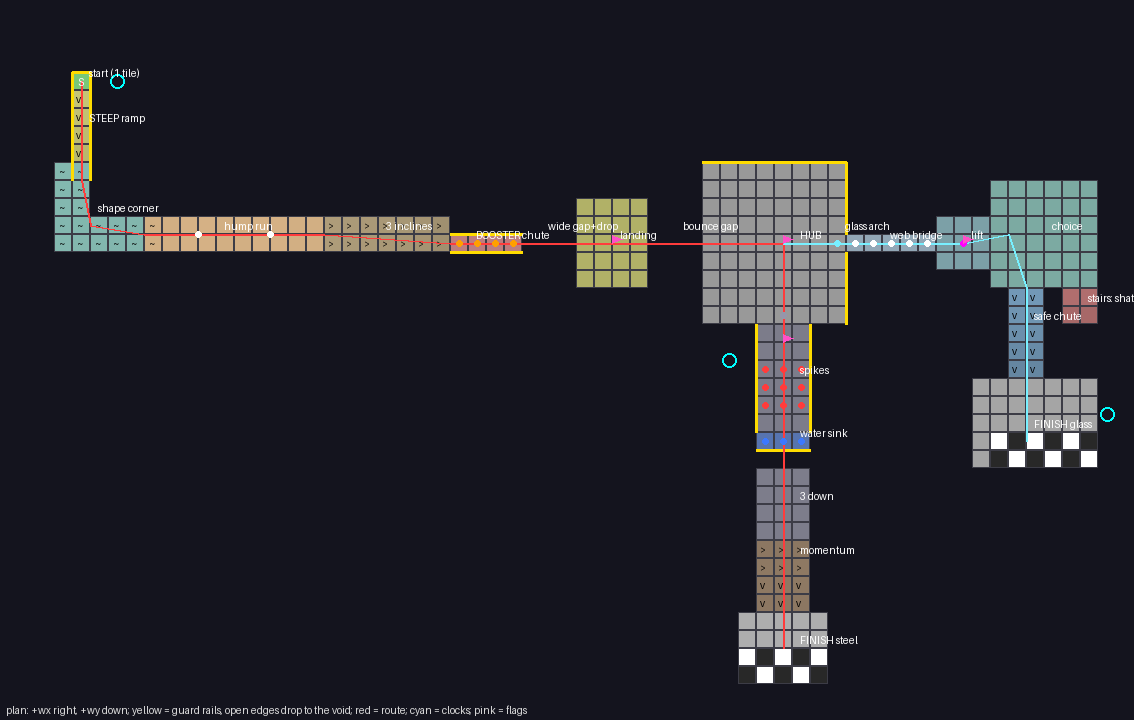
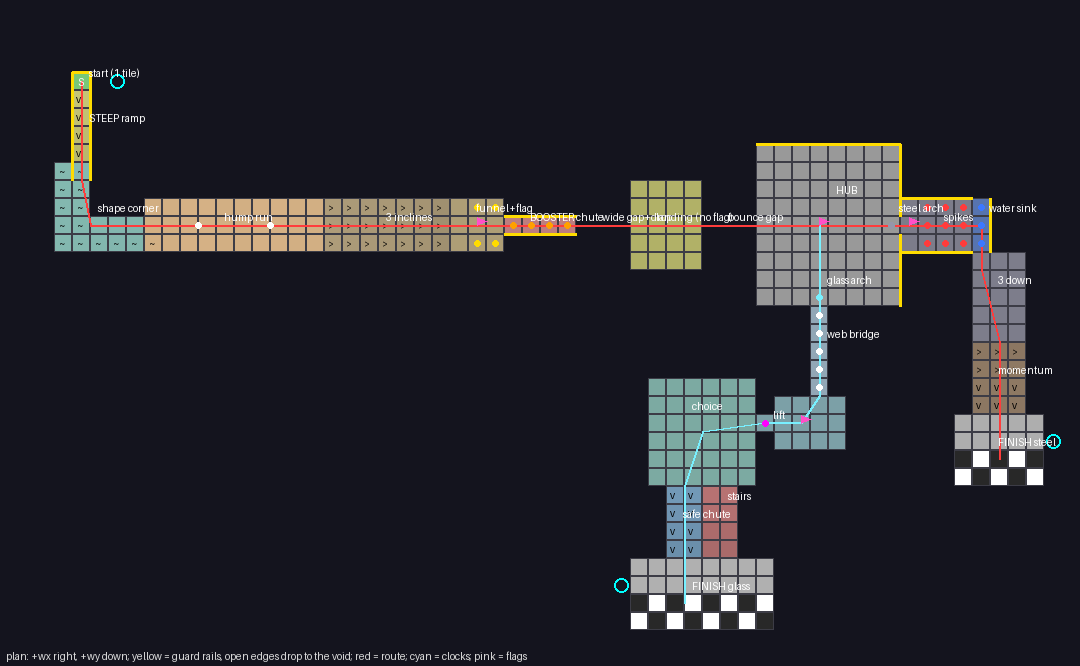
Bonanza DOWN pen-in rev 2: a 3-wide line into a funnel and flag before the chute, no flag on the landing, glass and steel swapped so the lift shows, safe-looking stairs to the finish
Claude-Session: https://claude.ai/code/session_01Wo8a4suEiDfFPFBsnHYKF3

Changed region(s): [[0.0306, 0.0901, 1.0, 0.961], [0.0, 0.961, 0.4889, 1.0]]

diff --git a/docs/plans/bonanza-courses/down/sketch.py b/docs/plans/bonanza-courses/down/sketch.py
@@ -122,76 +122,83 @@ rail(4, 4, 5, 4, "guard"); rail(4, 4, 4, 5, "guard"); rail(5, 4, 5, 5, "guard")
 ramp("R", "y", 4, 5, 5, 10, Z, Z - 10)                       # a STEEP ramp, 2 units a tile (the most), railed
 rail(4, 5, 4, 10); rail(5, 5, 5, 10)
 chute("C", [(4, 10, Z - 10), (4, 13, Z - 10.5), (8, 13, Z - 11)], 1.25)   # the CORNER: a banked shape turns it +x
-floor("H", 8, 12, 18, 14, Z - 11)                            # the HUMP RUN, 2 wide, unguarded, along +x
-for hx in (10, 14):                                          # two humps (2 x 2, the hump course's back hump's kind)
+floor("H", 8, 11, 18, 14, Z - 11)                            # the HUMP RUN, now 3 wide (rev 2), unguarded, along +x
+for hx in (10, 14):                                          # two humps, 2 long x 3 wide
     for x in range(hx, hx + 2):
-        for y in (12, 13):
+        for y in (11, 12, 13):
             CELLS[(x, y)] = (Z - 10, Z - 10, Z - 10, Z - 10)
-    mark(hx + 1, 13, "hump", "hump")
-ramp("D", "x", 18, 12, 20, 14, Z - 11, Z - 13)               # the DESCENT: three inclines, gentle - mild - steep
-ramp("D", "x", 20, 12, 23, 14, Z - 13, Z - 14.5)
-ramp("D", "x", 23, 12, 25, 14, Z - 14.5, Z - 18.5)
-floor("B", 25, 13, 29, 14, Z - 18.5)                         # the BOOSTER CHUTE: 1 wide, block-railed, pads +x
-rail(25, 13, 29, 13); rail(25, 14, 29, 14)
-for x in range(25, 29):
-    mark(x + 0.5, 13.5, "boost", "")
-floor("L", 32, 11, 36, 16, Z - 23)                           # a WIDE GAP (x 29 - 31) and a DROP onto L: easy,
-                                                             # unguarded; rubber BOUNCES on over a second gap
-floor("X", 39, 9, 47, 18, Z - 24)                            # the HUB, large and safe (x 36 - 38 the gap)
-rail(39, 9, 47, 9); rail(47, 9, 47, 13); rail(47, 14, 47, 18)
-# 2. THE SPLIT: two ARCHWAYS out of the hub, a STEEL pad under one, a GLASS pad under the other
-mark(43.5, 17.5, "arch", "arch"); mark(43.5, 17.5, "steel", "steel pad")
-mark(46.5, 13.5, "arch", "arch"); mark(46.5, 13.5, "glass", "glass pad")
-# 3a. STEEL (+y, down the screen): SPIKES on the only path, a WATER SINK, a MOMENTUM hump, the finish
-floor("S", 42, 18, 45, 24, Z - 24)
-for y in range(20, 23):
-    for x in range(42, 45):
+    mark(hx + 1, 12.5, "hump", "hump")
+ramp("D", "x", 18, 11, 20, 14, Z - 11, Z - 13)               # the DESCENT, 3 wide: gentle - mild - steep
+ramp("D", "x", 20, 11, 23, 14, Z - 13, Z - 14.5)
+ramp("D", "x", 23, 11, 25, 14, Z - 14.5, Z - 18.5)
+floor("F", 25, 11, 28, 14, Z - 18.5)                         # the FUNNEL (rev 2): 3 x 3 flat, flag 0 in its middle;
+for x in (26, 27):                                           # its last two columns' outer rows DIAGONAL guides
+    mark(x + 0.5, 11.5, "guide", ""); mark(x + 0.5, 13.5, "guide", "")
+floor("B", 28, 12, 32, 13, Z - 18.5)                         # the BOOSTER CHUTE: 1 wide, block-railed, pads +x
+rail(28, 12, 32, 12); rail(28, 13, 32, 13)
+for x in range(28, 32):
+    mark(x + 0.5, 12.5, "boost", "")
+floor("L", 35, 10, 39, 15, Z - 23)                           # a WIDE GAP (x 32 - 34) and a DROP onto L: easy,
+                                                             # unguarded, NO FLAG (a respawn there could never
+                                                             # cross on); rubber BOUNCES on over a second gap
+floor("X", 42, 8, 50, 17, Z - 24)                            # the HUB, large and safe (x 39 - 41 the gap)
+rail(42, 8, 50, 8); rail(50, 8, 50, 12); rail(50, 13, 50, 17)
+# 2. THE SPLIT: two ARCHWAYS out of the hub - EAST over a STEEL pad, SOUTH over a GLASS pad (rev 2: swapped, so
+#    the glass leg's lift climbs up the screen in view)
+mark(49.5, 12.5, "arch", "arch"); mark(49.5, 12.5, "steel", "steel pad")
+mark(45.5, 16.5, "arch", "arch"); mark(45.5, 16.5, "glass", "glass pad")
+# 3a. STEEL (east, +x): SPIKES on the only path, a WATER SINK, MOMENTUM, the finish
+floor("S", 50, 11, 54, 14, Z - 24)
+for y in range(11, 14):
+    for x in range(51, 54):
         mark(x + 0.5, y + 0.5, "spike", "")
-rail(42, 18, 42, 24); rail(45, 18, 45, 24)
-floor("W", 42, 24, 45, 25, Z - 24)                           # the WATER column's top row (water 3 units deep)
-for x in range(42, 45):
-    mark(x + 0.5, 24.5, "water", "")
-rail(42, 25, 45, 25)                                         # a rail ON TOP past the water: no Hop over it
-floor("T", 42, 26, 45, 30, Z - 27)                           # out of the front arch, 3 units down
-ramp("M", "y", 42, 30, 45, 32, Z - 27, Z - 25)               # MOMENTUM: up 2 units (steel needs its speed)
-ramp("M", "y", 42, 32, 45, 34, Z - 25, Z - 27)
-floor("G", 41, 34, 46, 38, Z - 27)                           # FINISH 1 (exit 0)
-# 3b. GLASS (+x, east of the hub, clear of everything else): a WEB BRIDGE, a LIFT, then the CHOICE, both ways
-#     DOWN the screen (+y) to the glass finish
-floor("K", 47, 13, 52, 14, Z - 24)                           # the WEB BRIDGE: thin cracked tiles over the void
-for x in range(47, 52):
-    mark(x + 0.5, 13.5, "crack", "")
-floor("P", 52, 12, 55, 15, Z - 24)
-mark(53.5, 13.5, "lift", "LIFT up 4")
-floor("Q", 55, 10, 61, 16, Z - 20)                           # the lift's top: the CHOICE
-ramp("Y", "y", 56, 16, 58, 21, Z - 20, Z - 30)               # (left) a SAFE CHUTE down (a ramp sketched; a shape)
-floor("Z", 59, 16, 61, 17, Z - 23.5)                         # (right) STAIRS of 3.5 units: glass SHATTERS
-floor("Z", 59, 17, 61, 18, Z - 27)
-floor("V", 54, 21, 61, 26, Z - 30)                           # FINISH 2 (exit 1)
-GOAL = {(x, y) for x in range(41, 46) for y in range(36, 38)} | {(x, y) for x in range(55, 61) for y in range(24, 26)}
+rail(50, 11, 54, 11); rail(50, 14, 54, 14)
+floor("W", 54, 11, 55, 14, Z - 24)                           # the WATER column (3 units deep) across the path
+for y in range(11, 14):
+    mark(54.5, y + 0.5, "water", "")
+rail(55, 11, 55, 14)                                         # a rail ON TOP past it: no Hop over the water
+floor("T", 54, 14, 57, 19, Z - 27)                           # steel sinks and rolls out of the front (+y) ARCH, 3 down
+ramp("M", "y", 54, 19, 57, 21, Z - 27, Z - 25)               # MOMENTUM: up 2 units and down
+ramp("M", "y", 54, 21, 57, 23, Z - 25, Z - 27)
+floor("G", 53, 23, 58, 27, Z - 27)                           # FINISH 1, steel (exit 0)
+# 3b. GLASS (south, +y): a WEB BRIDGE, a LIFT climbing up the screen, then the CHOICE down the screen
+floor("K", 45, 17, 46, 22, Z - 24)                           # the WEB BRIDGE: 1 wide, thin cracked tiles over the void
+for y in range(17, 22):
+    mark(45.5, y + 0.5, "crack", "")
+floor("P", 43, 22, 47, 25, Z - 24)                           # the bridge's landing
+floor("P", 42, 23, 43, 24, Z - 24)
+mark(42.5, 23.5, "lift", "LIFT up 4")                        # the LIFT, on P's west edge: it rises in FRONT of Q
+floor("Q", 36, 21, 42, 27, Z - 20)                           # the CHOICE plateau, behind the lift (its face in view)
+ramp("Y", "y", 37, 27, 39, 31, Z - 20, Z - 26)               # (left) a SAFE CHUTE down (a ramp sketched; a shape)
+floor("Z", 39, 27, 41, 28, Z - 21)                           # (right) STAIRS: two safe 1-unit steps, then ONE
+floor("Z", 39, 28, 41, 29, Z - 22)                           #   3-unit step in the middle (glass SHATTERS from 3),
+floor("Z", 39, 29, 41, 30, Z - 25)                           #   then one more onto the finish, flush
+floor("Z", 39, 30, 41, 31, Z - 26)
+floor("V", 35, 31, 43, 35, Z - 26)                           # FINISH 2, glass (exit 1)
+GOAL = {(x, y) for x in range(53, 58) for y in range(25, 27)} | {(x, y) for x in range(35, 43) for y in range(33, 35)}
 
 START = (4.5, 4.5)
-FLAGS = [(34, 13.5, "flag 0"), (43.5, 13.5, "flag 1"), (43.5, 19, "flag 2"), (53.5, 13.5, "flag 3")]
-CLOCKS = [(6.5, 4.5, Z, "start", "block"), (40.5, 20, Z - 23, "steel finish", "block"),
-          (61.5, 23, Z - 29, "glass finish", "block")]
+FLAGS = [(26.5, 12.5, "flag 0"), (45.5, 12.5, "flag 1"), (50.5, 12.5, "flag 2"), (44.5, 23.5, "flag 3")]
+CLOCKS = [(6.5, 4.5, Z, "start", "block"), (58.5, 24.5, Z - 25.5, "steel finish", "block"),
+          (34.5, 32.5, Z - 24.5, "glass finish", "block")]
 FRAMES = {}
 PLACED = {}
 SIGNS = []
-ROUTE = [(4.5, 4.5), (4.5, 10), (5, 12.5), (8, 13), (18, 13), (25, 13.5), (29, 13.5), (34, 13.5), (40, 13.5),
-         (43.5, 13.5), (43.5, 18), (43.5, 25), (43.5, 30), (43.5, 36)]
-ROUTE2 = [(43.5, 13.5), (47, 13.5), (52, 13.5), (53.5, 13.5), (56, 13), (57, 16), (57, 21), (57, 24.5)]
-LABELS = [(4.5, 4.5, "start (1 tile)"), (4.5, 7, "STEEP ramp"), (5, 12, "shape corner"), (12, 13, "hump run"),
-          (21, 13, "3 inclines"), (26, 13.5, "BOOSTER chute"), (30, 13, "wide gap+drop"), (34, 13.5, "landing"),
-          (37.5, 13, "bounce gap"), (44, 13.5, "HUB"), (44, 21, "spikes"), (44, 24.5, "water sink"),
-          (44, 28, "3 down"), (44, 31, "momentum"), (44, 36, "FINISH steel"), (46.5, 13, "glass arch"),
-          (49, 13.5, "web bridge"), (53.5, 13.5, "lift"), (58, 13, "choice"), (57, 18, "safe chute"),
-          (60, 17, "stairs: shatter"), (57, 24, "FINISH glass")]
+ROUTE = [(4.5, 4.5), (4.5, 10), (5, 12.5), (8, 12.5), (18, 12.5), (25, 12.5), (28, 12.5), (32, 12.5), (37, 12.5),
+         (45.5, 12.5), (50, 12.5), (54.5, 12.5), (54.5, 15), (55.5, 19), (55.5, 23), (55.5, 25.5)]
+ROUTE2 = [(45.5, 12.5), (45.5, 17), (45.5, 22), (44.5, 23.5), (42.5, 23.5), (39, 24), (38, 27), (38, 31), (38, 33.5)]
+LABELS = [(4.5, 4.5, "start (1 tile)"), (4.5, 7, "STEEP ramp"), (5, 12, "shape corner"), (12, 12.5, "hump run"),
+          (21, 12.5, "3 inclines"), (26, 12, "funnel+flag"), (29, 12.5, "BOOSTER chute"), (33, 12.5, "wide gap+drop"),
+          (36, 12.5, "landing (no flag)"), (40, 12.5, "bounce gap"), (46, 11, "HUB"), (49.5, 12, "steel arch"),
+          (52, 12.5, "spikes"), (54.5, 12, "water sink"), (55, 16, "3 down"), (55, 21, "momentum"),
+          (55, 25, "FINISH steel"), (45.5, 16, "glass arch"), (45.5, 19, "web bridge"), (42.5, 23.5, "lift"),
+          (38, 23, "choice"), (37.5, 29, "safe chute"), (40, 28, "stairs"), (38, 33, "FINISH glass")]
 
 # --- drawing ----------------------------------------------------------------
-SECCOL = {k: v for k, v in zip("ARCHDBLXSWTMGNKPQYZV", [(120, 200, 120), (200, 200, 120), (150, 210, 200),
+SECCOL = {k: v for k, v in zip("ARCHDBLXSWTMGNKPQYZVF", [(120, 200, 120), (200, 200, 120), (150, 210, 200),
           (240, 200, 150), (200, 180, 140), (240, 160, 160), (240, 240, 140), (210, 210, 210), (170, 170, 190),
           (120, 160, 240), (180, 180, 200), (200, 170, 140), (250, 250, 250), (150, 230, 240), (200, 230, 250),
-          (170, 220, 230), (160, 220, 210), (150, 200, 240), (240, 150, 150), (250, 250, 250)])}
+          (170, 220, 230), (160, 220, 210), (150, 200, 240), (240, 150, 150), (250, 250, 250), (220, 200, 150)])}
 
 
 def zat(wx, wy):
@@ -233,7 +240,7 @@ def plan(out):
     for x, y, kind, t in MARKS:
         d.ellipse([x * S - 3, y * S - 3, x * S + 3, y * S + 3], fill={"steel": (150, 150, 170),
                   "glass": (120, 240, 255), "spike": (255, 60, 60), "water": (60, 120, 255), "boost": (255, 160, 0),
-                  "crack": (255, 255, 255), "lift": (255, 0, 255), "arch": (255, 220, 0), "hump": (255, 255, 255)}[kind])
+                  "crack": (255, 255, 255), "lift": (255, 0, 255), "arch": (255, 220, 0), "hump": (255, 255, 255), "guide": (255, 220, 0)}[kind])
     for x, y, z, f in PLACED.values():
         d.ellipse([x * S - 7, y * S - 7, x * S + 7, y * S + 7], outline=(0, 255, 255), width=2)
     for x, y, t in FLAGS:
@@ -319,7 +326,7 @@ def iso(out):
                       for px in range(cx - 11, cx + 12, 2) for py in range(cy - 20, cy + 3, 2))
     MC = {"steel": (150, 150, 170), "glass": (120, 240, 255), "spike": (255, 60, 60), "water": (60, 120, 255),
           "boost": (255, 160, 0), "crack": (255, 255, 255), "lift": (255, 0, 255), "arch": (255, 220, 0),
-          "hump": (255, 255, 255)}
+          "hump": (255, 255, 255), "guide": (255, 220, 0)}
     for x, y, kind, t in MARKS:
         bx, by = Q(x, y, zat(x, y))
         c = MC[kind]
@@ -329,6 +336,8 @@ def iso(out):
             d.line([(bx - 6, by - 3), (bx, by), (bx - 6, by + 3)], fill=c, width=2)
         elif kind == "crack":
             d.line([(bx - 6, by - 2), (bx + 6, by + 2)], fill=c); d.line([(bx - 3, by + 2), (bx + 3, by - 2)], fill=c)
+        elif kind == "guide":
+            d.polygon([(bx - 12, by - 2), (bx + 12, by - 2), (bx + 12, by - 14)], fill=c)
         elif kind == "arch":
             d.arc([bx - 14, by - 30, bx + 14, by + 2], 180, 360, fill=c, width=3)
         elif kind == "lift":
